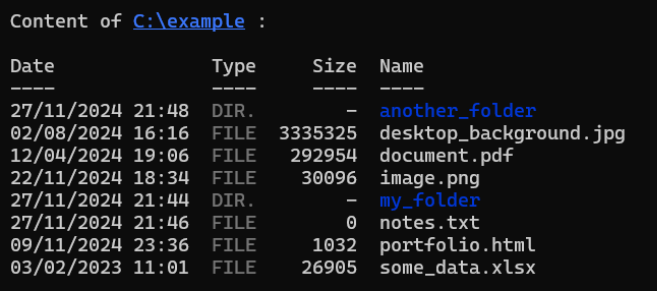
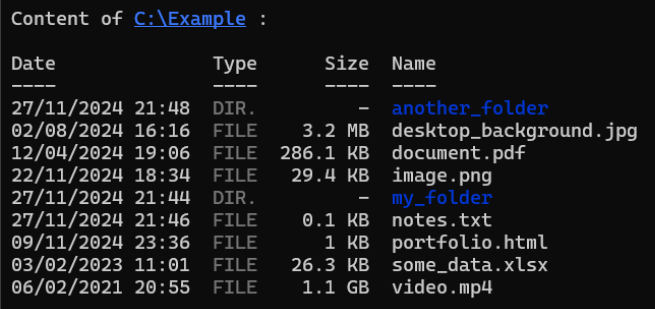
docs: update screenshot example and README according to project changes

Changed region(s): [[0.0, 0.1546, 0.3969, 0.9588], [0.4275, 0.1856, 0.9771, 0.9588], [0.0, 0.0309, 0.4275, 0.1237]]

diff --git a/README.md b/README.md
@@ -21,6 +21,8 @@ listdir
 ```
 
 ## Example
+Here is an example of the `listdir` command output :
+
 ![output_example](https://github.com/soniiix/nodejs-dir-list/blob/main/resources/screenshot.png?raw=true)
 
 ## Useful links
